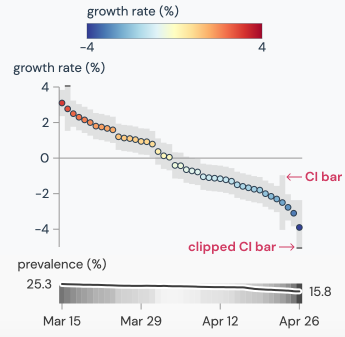
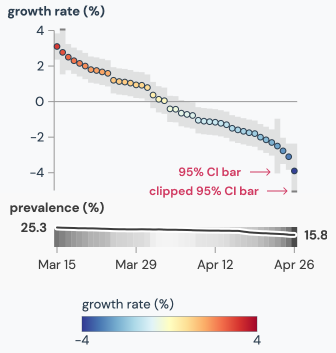
feat: update growth rate pictures

Changed region(s): [[0.0, 0.0, 1.0, 0.8012], [0.0595, 0.8309, 0.9821, 0.9792]]

diff --git a/web/src/components/GrImage.vue b/web/src/components/GrImage.vue
@@ -2,7 +2,7 @@
   <div class="image-container">
     <picture>
       <source 
-        media="(min-width: 600px)" 
+        media="(min-width: 650px)" 
         :srcset="`${retinaLarge} 2x, ${regularLarge} 1x`"
       >
       <source 
